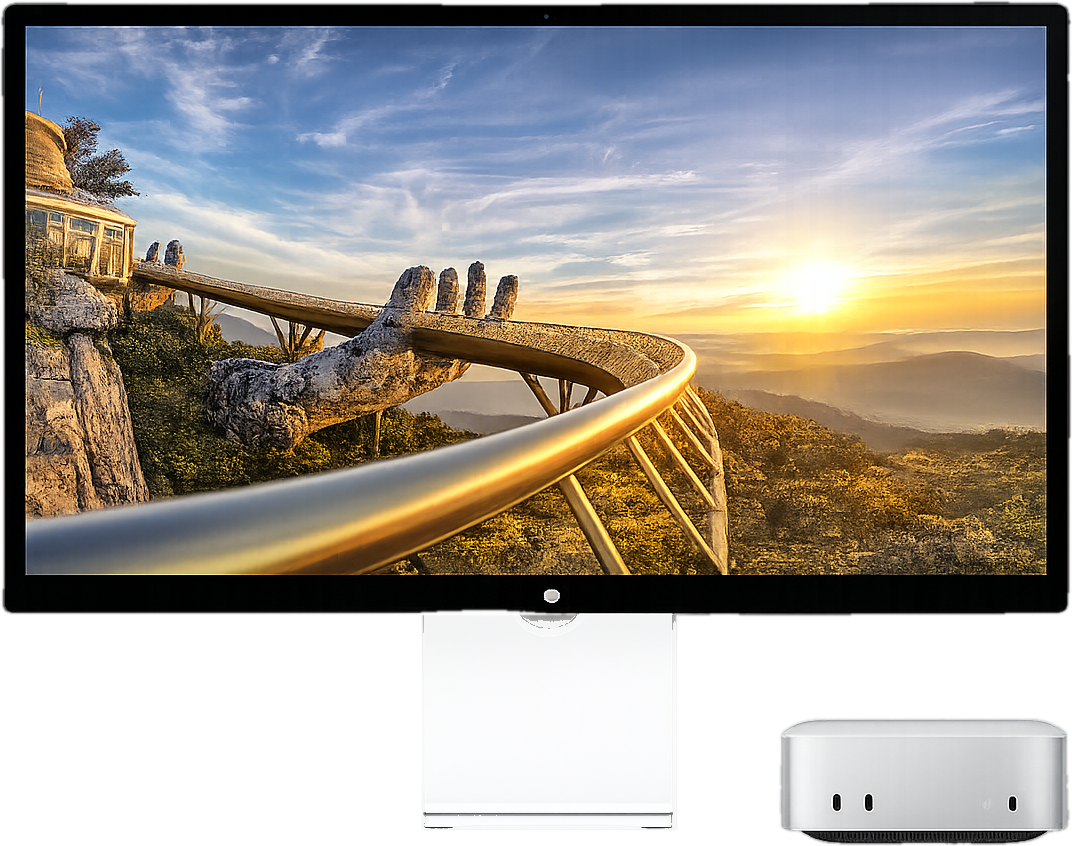
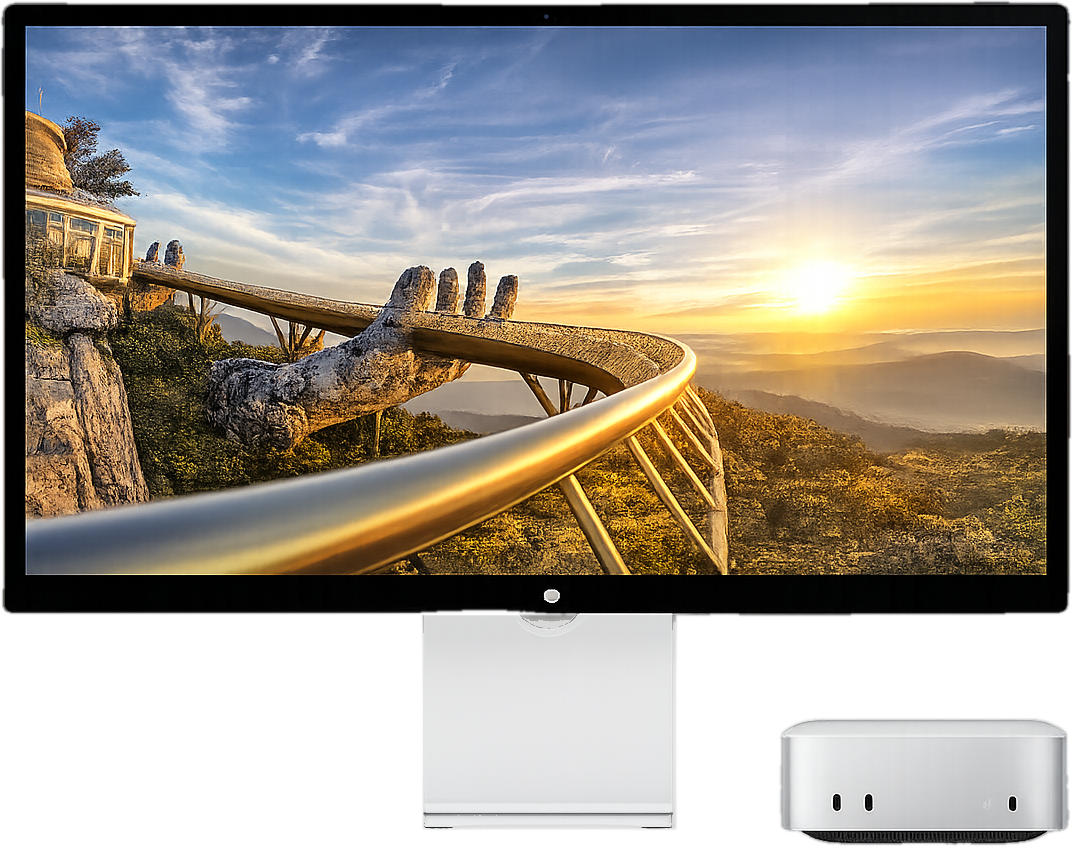
fix: нога дисплея одного тона с Mac mini
При чистке пятен я вывел пластину в 243-253 — она стала белее Mac mini
(221,223,223) и читалась другим материалом. Замер подтвердил: нога 250,250,251
при медиане яркости 251, mini 221. Теперь пластина сжимается в 216-234:
медиана 229 против 221 у mini, разница 8 единиц — один серебристый тон.
Сжатие диапазона заодно убирает градиент фона, который просвечивал сквозь
полупрозрачную пластину и читался пятнами.

Changed region(s): [[0.3694, 0.7069, 0.6465, 0.7991], [0.4002, 0.922, 0.6465, 0.9835]]

diff --git a/index.html b/index.html
@@ -1629,7 +1629,7 @@
       <!-- ?v=1 — версия пути. Без неё браузер держал в кэше прежний
            bana-gate.webp с непрозрачным фоном и не показывал вырезку при
            обычном обновлении. При замене файла версию поднимать. -->
-      <img src="images/bana-display.webp?v=5" alt="Ба На Хиллс — Золотой мост и врата на экране" decoding="async" loading="lazy" />
+      <img src="images/bana-display.webp?v=6" alt="Ба На Хиллс — Золотой мост и врата на экране" decoding="async" loading="lazy" />
     </div>
   </section>
 
